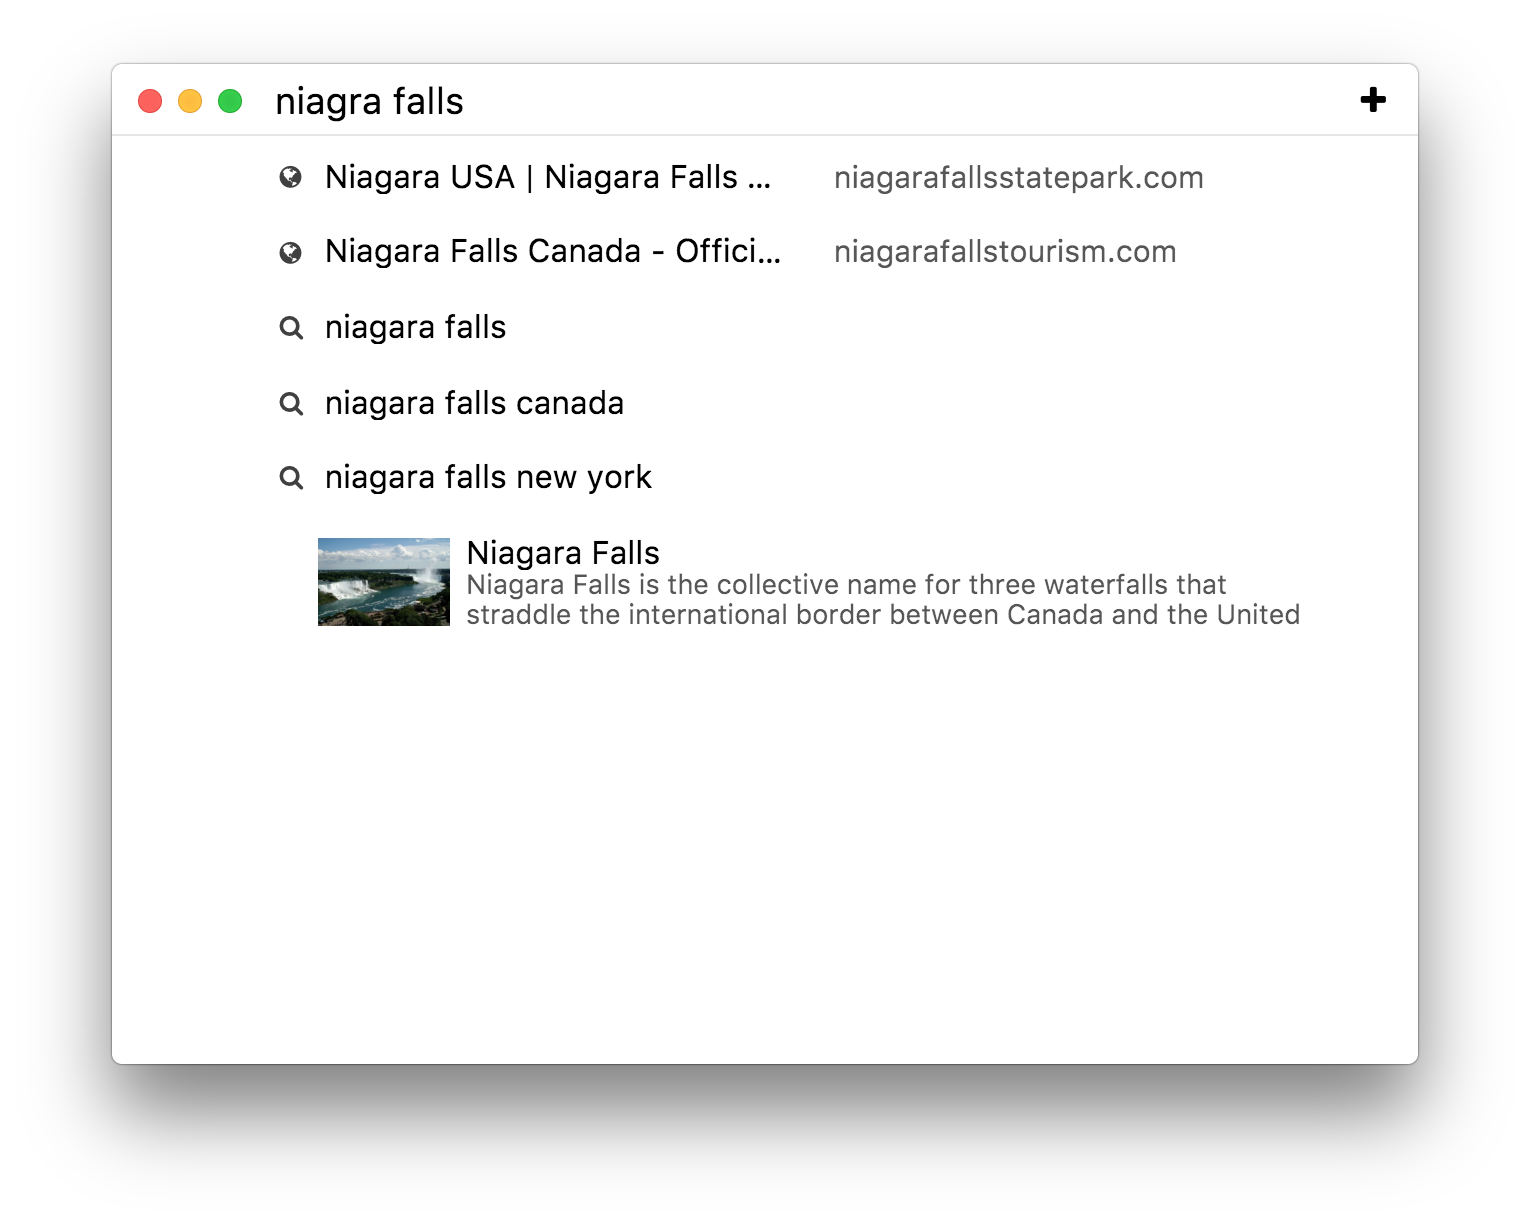
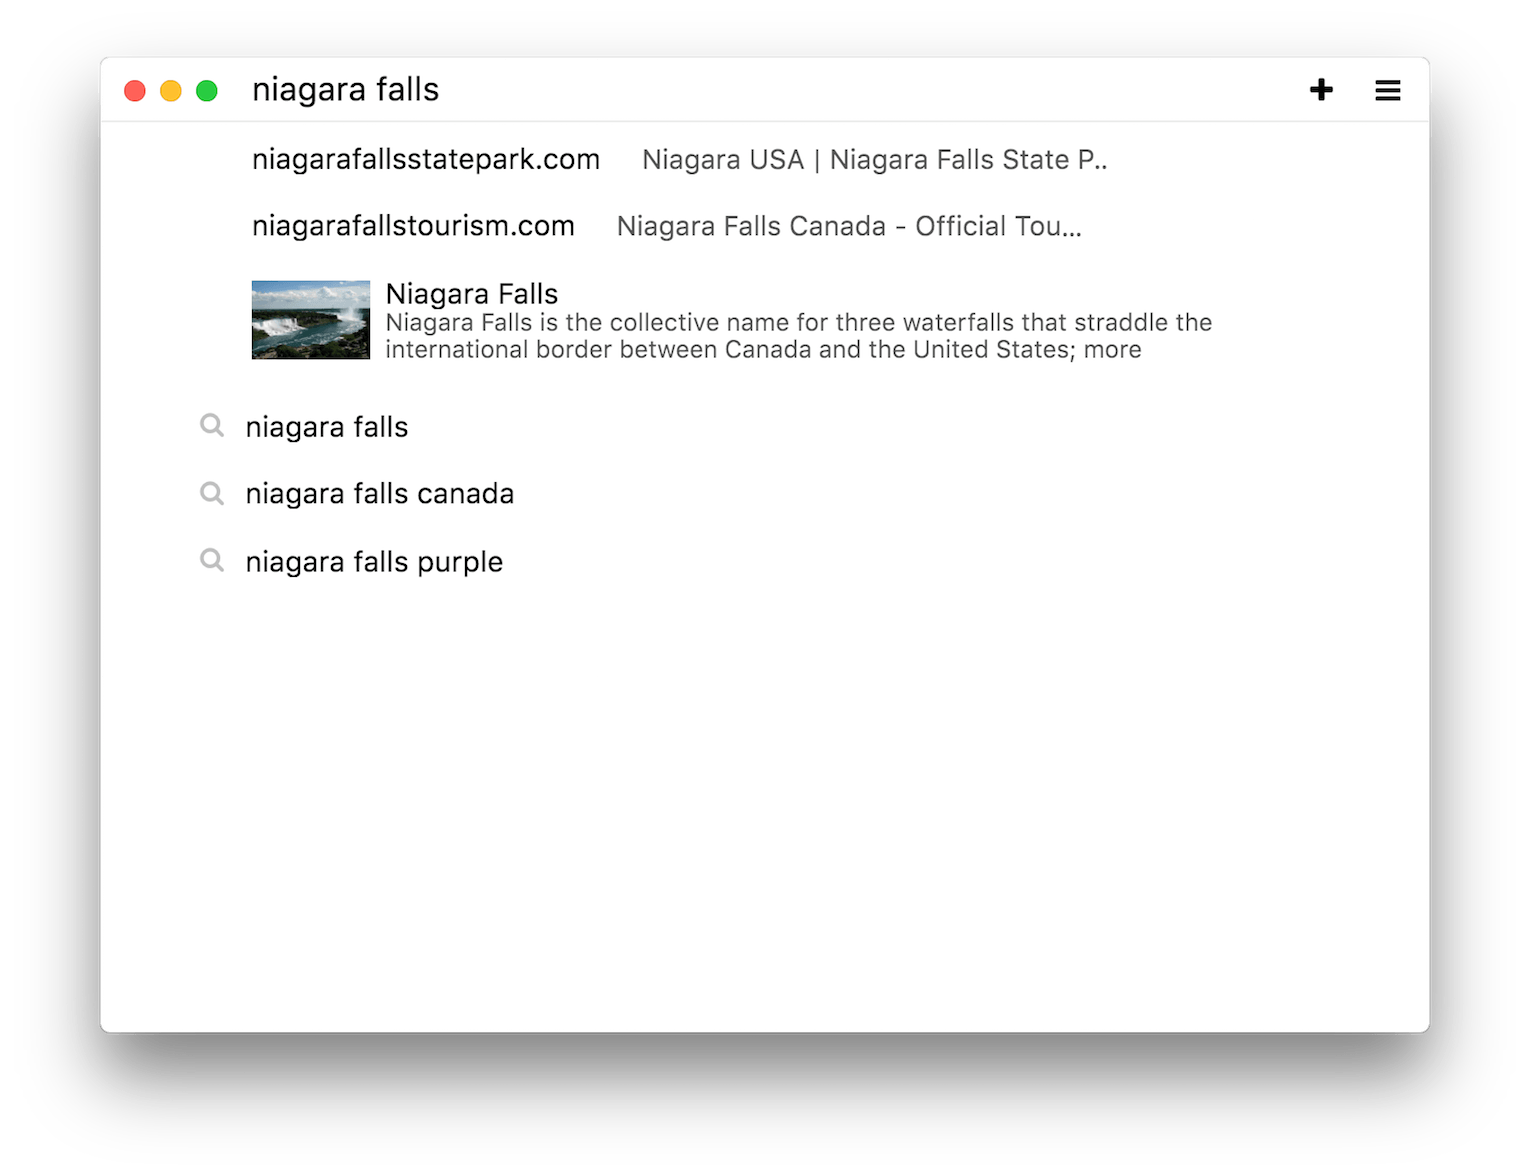
update for 1.2.0

Changed region(s): [[0.1229, 0.1837, 0.8601, 0.5204], [0.0614, 0.0612, 0.9523, 0.8878], [0.8601, 0.0612, 0.9216, 0.0918]]

diff --git a/tour/index.html b/tour/index.html
@@ -63,7 +63,7 @@
 	<div class="section light-gray-background">
 		<div class="column">
 			<h1>Reading List</h1>
-			<p>>Click the <i class="fa fa-align-left"></i> icon in a tab to format an article and make it easier to read. Articles opened in reader view are saved in your reading list for the next 30 days, and are saved for offline reading.
+			<p>Click the <i class="fa fa-align-left"></i> icon in a tab to format an article and make it easier to read. Articles opened in reader view are saved in your reading list for the next 30 days, and are saved for offline reading.
 				<br>
 				<br> You can find your saved articles in the application menu: View &gt; Reading List.
 			</p>
@@ -86,12 +86,12 @@
 		<div class="column">
 			<h1>Tips and Tricks</h1>
 			<ul>
-				<li>Swipe down on the tabstrip (or press ⇧+⌘+E) to expand the tabstrip and view all of your open tabs in a grid.</li>
+				<li>Tasks let you split your tabs into groups. Click the <i class="fa fa-bars"></i> icon to show all of your open tasks or create a new task. Click on a tab to switch to that task.</li>
 				<li>Quickly switch between tabs: press ⌘+1 to move one tab to the right, ⌘+2 to move two tabs to the right, etc. ⇧+⌘+1 moves one tab to the left.</li>
 				<li>Focus Mode lets you hide distractions. In focus mode, all your tabs except the current one are hidden, and you can't create new tabs. Turn on focus mode in the View menu > Focus Mode.</li>
 			</ul>
 		</div>
-		<img class="column" src="img/expanded_tab_mode.png" />
+		<img class="column" src="img/tasks.png" />
 	</div>
 
 	<div class="section one-column">

diff --git a/index.html b/index.html
@@ -46,9 +46,9 @@
 	<div class="section light-gray-background" layout="right">
 		<div class="column">
 			<h1>Effortless tab management</h1>
-			<p>Tabs in Min open to the right of the current tab, so you’ll never lose your place. Tabs you haven’t looked at in a while dim, so you can focus on what you’re working on. And when you have lots of tabs, you can swipe down to expand your tabs into a grid, allowing you to quickly find any tab.</p>
+			<p>Tabs in Min open to the right of the current tab, so you’ll never lose your place. Tabs you haven’t looked at in a while dim, so you can focus on what you’re working on. And when you have lots of tabs, you can view your tabs in a list, or split them into groups.</p>
 		</div>
-		<img class="column" src="tour/img/expanded_tab_mode.png" />
+		<img class="column" src="tour/img/tasks.png" />
 	</div>
 	<div class="section" layout="left">
 		<img class="column" src="splash/adblock.png" />

diff --git a/splash/splash.js b/splash/splash.js
@@ -5,9 +5,9 @@ var failMessage = "Min requires OS X or Ubuntu";
 var availablePlatforms = ["MacIntel"];
 
 var platforms = {
-	"MacIntel": "https://github.com/PalmerAL/min/releases/download/v1.1.2/Min-v1.1.2-darwin-x64.zip",
-	"Linux i686": "https://github.com/PalmerAL/min/releases/download/v1.1.2/Min_1.1.2_i386.deb",
-	"x86_64": "https://github.com/PalmerAL/min/releases/download/v1.1.2/Min_1.1.2_amd64.deb",
+	"MacIntel": "https://github.com/PalmerAL/min/releases/download/v1.2.0/Min-v1.2.0-darwin-x64.zip",
+	"Linux i686": "https://github.com/PalmerAL/min/releases/download/v1.2.0/Min_1.2.0_i386.deb",
+	"x86_64": "https://github.com/PalmerAL/min/releases/download/v1.2.0/Min_1.2.0_amd64.deb",
 }
 
 var downloadButtons = document.getElementsByClassName("download-button");
